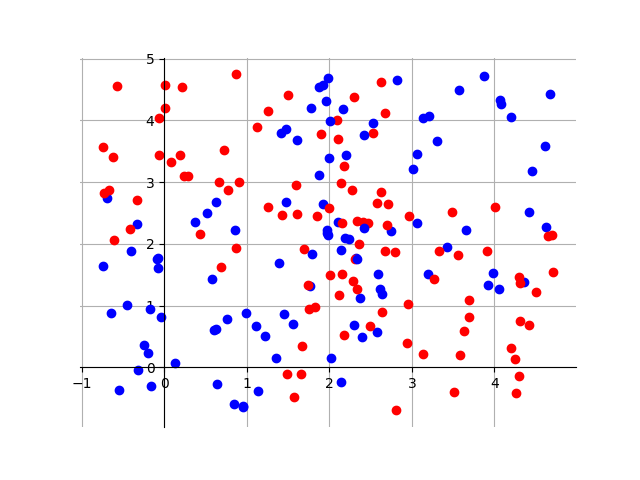
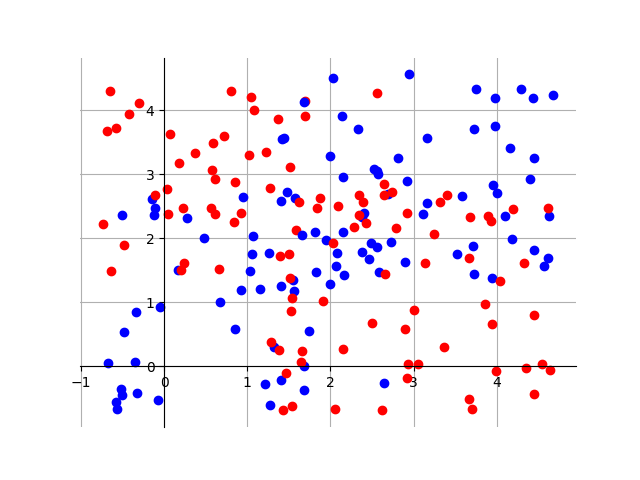
added sklearn model testing on artificial data

diff --git a/004/sklearn_tests.py b/004/sklearn_tests.py
@@ -1,0 +1,56 @@
+from sklearn.neighbors import KNeighborsClassifier
+from sklearn.tree import DecisionTreeClassifier
+from sklearn.ensemble import RandomForestClassifier
+from sklearn.model_selection import train_test_split
+from sklearn.metrics import accuracy_score
+
+from artificial_datasets import generate_dataset
+from artificial_datasets import split_into_x_y
+
+import matplotlib.pyplot as plt
+import random
+
+center_points = [[1,1], [1,3], [3,3], [3,1]]
+complete_dataset = generate_dataset(center_points)
+
+x_set, y_set = split_into_x_y(complete_dataset)
+
+x_train, x_test, y_train, y_test = train_test_split(x_set, y_set, test_size=0.5)
+
+scores = {}
+
+for k in range(1,50):
+    knn = KNeighborsClassifier(n_neighbors=k)
+    knn.fit(x_train, y_train)
+    y_pred = knn.predict(x_test)
+    scores[k] = accuracy_score(y_test, y_pred)
+
+plt.plot(list(scores.keys()), list(scores.values()))
+plt.grid(True)
+plt.savefig("knn_test.png")
+plt.clf()
+scores = {}
+
+for split in range(2,50):
+    dt = DecisionTreeClassifier(min_samples_split=split)
+    dt.fit(x_train, y_train)
+    y_pred = dt.predict(x_test)
+    scores[split] = accuracy_score(y_test, y_pred)
+
+plt.plot(list(scores.keys()), list(scores.values()))
+plt.grid(True)
+plt.savefig("decision_tree_test.png")
+plt.clf()
+scores = {}
+
+for trees in range(1,100):
+    rf = RandomForestClassifier(n_estimators=trees)
+    rf.fit(x_train, y_train)
+    y_pred = rf.predict(x_test)
+    scores[trees] = accuracy_score(y_test, y_pred)
+
+plt.plot(list(scores.keys()), list(scores.values()))
+plt.grid(True)
+plt.savefig("random_forest_test.png")
+
+print("done")

diff --git a/004/artificial_datasets.py b/004/artificial_datasets.py
@@ -1,4 +1,3 @@
-import matplotlib.pyplot as plt
 import random
 
 def generate_cluster(num_points, center, dataclass, distance):
@@ -11,8 +10,8 @@ def generate_cluster(num_points, center, dataclass, distance):
 
 def generate_dataset(centerpoints):
   complete_dataset = []
-  for point in center_points:
-    i = center_points.index(point)
+  for point in centerpoints:
+    i = centerpoints.index(point)
     if i%2 == 0:
       dataclass = 'x'
     else:
@@ -21,21 +20,5 @@ def generate_dataset(centerpoints):
     complete_dataset.extend(new_cluster)
   return complete_dataset
 
-center_points = [[1,1], [1,3], [3,3], [3,1]]
-complete_dataset = generate_dataset(center_points)
-
-graph = plt.gca()
-for point in complete_dataset:
-  if point[2] == 'x':
-    color = "bo"
-  else:
-    color = "ro"
-  graph.plot(point[0], point[1], color)
-
-graph.grid(True)
-graph.spines['left'].set_position('zero')
-graph.spines['right'].set_color('none')
-graph.spines['bottom'].set_position('zero')
-graph.spines['top'].set_color('none')
-plt.savefig("artificial_data.png")
-print("done")
+def split_into_x_y(dataset):
+  return [point[:-1] for point in dataset], [point[-1] for point in dataset]

diff --git a/004/artificial_dataset_testing.py b/004/artificial_dataset_testing.py
@@ -1,0 +1,22 @@
+from artificial_datasets import generate_dataset
+from artificial_datasets import split_into_x_y
+import matplotlib.pyplot as plt
+
+center_points = [[1,1], [1,3], [3,3], [3,1]]
+complete_dataset = generate_dataset(center_points)
+
+graph = plt.gca()
+for point in complete_dataset:
+    if point[2] == 'x':
+        color = "bo"
+    else:
+        color = "ro"
+    graph.plot(point[0], point[1], color)
+
+graph.grid(True)
+graph.spines['left'].set_position('zero')
+graph.spines['right'].set_color('none')
+graph.spines['bottom'].set_position('zero')
+graph.spines['top'].set_color('none')
+plt.savefig("artificial_data.png")
+print("done")
